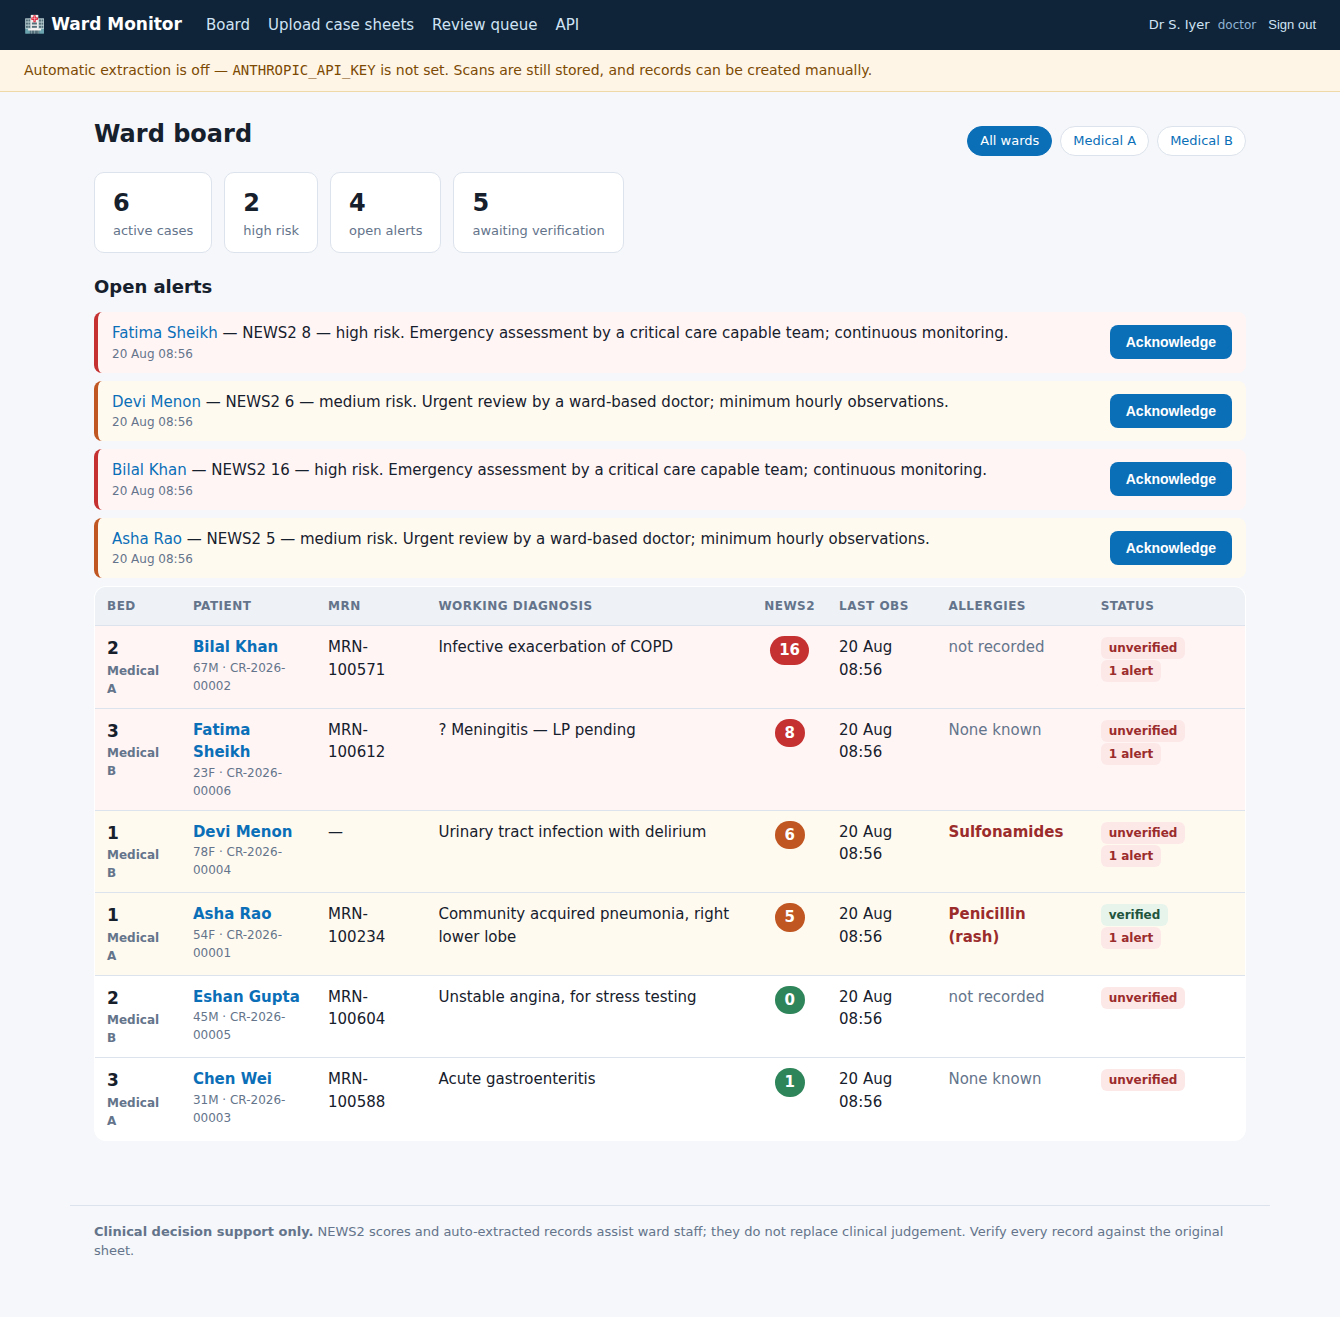
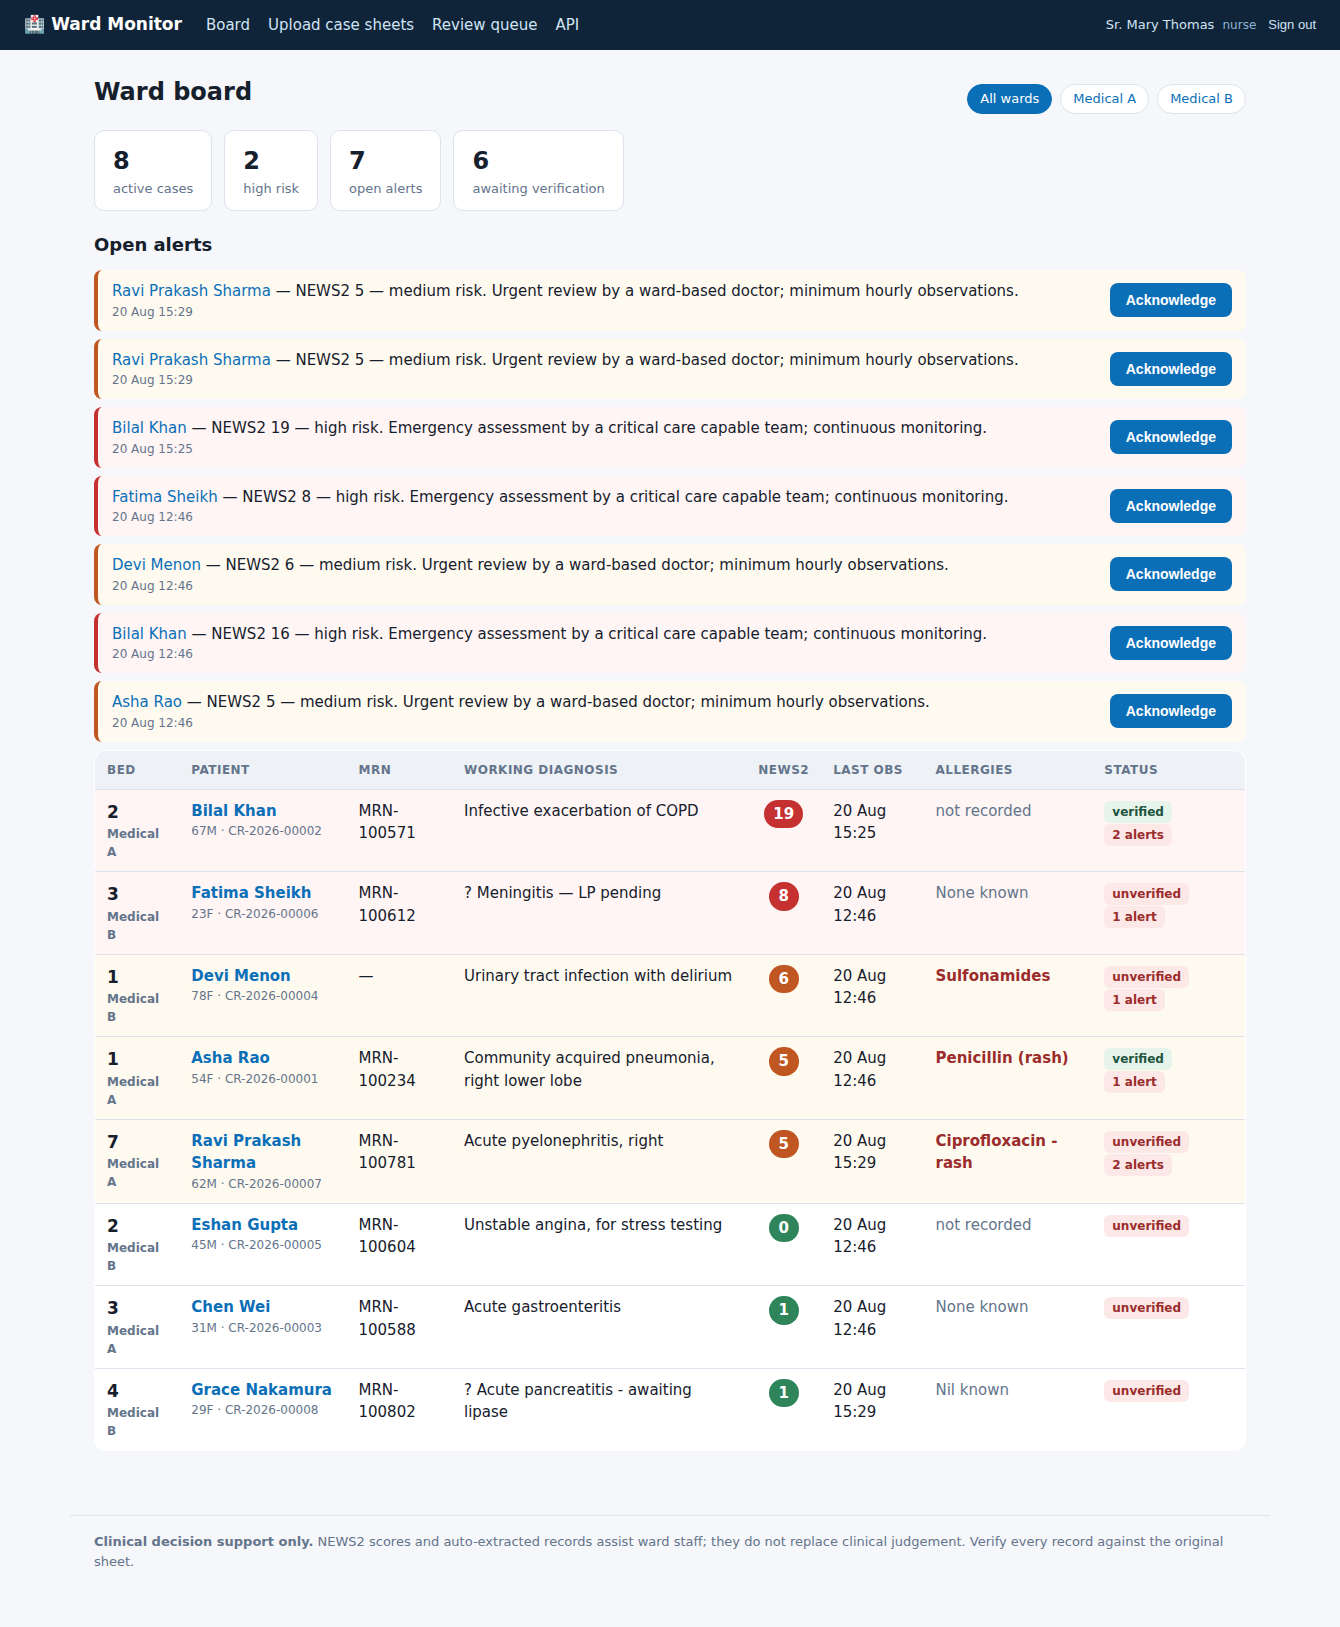
Do not duplicate a reading when the same sheet is scanned again
Found by running the app: re-uploading a case sheet, or re-running
extraction on a stored one, correctly refused to duplicate the patient
and the case record — but re-transcribed the vitals every time. That put
a phantom point on the trend chart at the same timestamp and raised the
same alert again, so a patient showed two identical NEWS2 alerts on the
board.

Sheet vitals are now recorded once: an identical set already transcribed
from a scan for that case is skipped. Only sheet-sourced observations are
compared, so two genuinely identical bedside readings taken by a nurse
are still both kept — that is real data, not a duplicate.

Also made score_observation and raise_alerts read their inputs through a
helper that tolerates an unflushed observation. Column defaults are
applied on flush, so an in-memory object can hold None where the database
would have a default, and scoring one crashed on consciousness.value.

Claude-Session: https://claude.ai/code/session_016GEztcXZMA6LRoHpR35yBd

diff --git a/app/intake.py b/app/intake.py
@@ -28,6 +28,9 @@ from app.scoring import alerts_for, calculate_news2
 
 logger = logging.getLogger(__name__)
 
+# Marks an observation as transcribed off a scan rather than taken at the bedside.
+SHEET_SOURCE = "case sheet (auto-extracted)"
+
 DATE_FORMATS = [
     "%Y-%m-%d", "%d/%m/%Y", "%d-%m-%Y", "%m/%d/%Y", "%d.%m.%Y",
     "%d %b %Y", "%d %B %Y", "%b %d, %Y", "%B %d, %Y",
@@ -304,20 +307,45 @@ def _apply_clinical(case: models.CaseRecord, sheet: ExtractedCaseSheet, *, overw
     return warnings
 
 
+VITALS_FIELDS = (
+    "respiratory_rate", "spo2", "on_oxygen", "systolic_bp",
+    "diastolic_bp", "pulse", "temperature_c",
+)
+
+
+def _already_transcribed(case: models.CaseRecord, vitals) -> bool:
+    """Has this exact set of sheet vitals already been recorded for this case?
+
+    Re-scanning a sheet — or re-running extraction on a stored one — must not
+    add a second copy of the same reading. A duplicate would put a phantom point
+    on the trend chart and raise the same alert twice.
+    """
+    incoming = {field: getattr(vitals, field) for field in VITALS_FIELDS}
+    incoming["on_oxygen"] = bool(incoming["on_oxygen"])
+    for existing in case.observations:
+        if existing.recorded_by != SHEET_SOURCE:
+            continue
+        if all(getattr(existing, field) == incoming[field] for field in VITALS_FIELDS):
+            return True
+    return False
+
+
 def record_observation_from_sheet(
     db: Session, case: models.CaseRecord, sheet: ExtractedCaseSheet
 ) -> models.Observation | None:
-    """Store the vitals printed on the sheet as the first observation."""
+    """Store the vitals printed on the sheet as an observation, once."""
     vitals = sheet.vitals
     if vitals is None:
         return None
     values = vitals.model_dump(exclude_none=True)
     if not values:
         return None
+    if _already_transcribed(case, vitals):
+        return None
 
     observation = models.Observation(
         case_record=case,
-        recorded_by="case sheet (auto-extracted)",
+        recorded_by=SHEET_SOURCE,
         respiratory_rate=vitals.respiratory_rate,
         spo2=vitals.spo2,
         on_oxygen=bool(vitals.on_oxygen),
@@ -335,17 +363,27 @@ def record_observation_from_sheet(
     return observation
 
 
-def score_observation(observation: models.Observation) -> None:
-    result = calculate_news2(
+def _news2_args(observation: models.Observation) -> dict:
+    """Read scoring inputs off an observation that may not be flushed yet.
+
+    Column defaults are applied on flush, so an in-memory object can still have
+    None where the database would have a default — score it the same either way.
+    """
+    consciousness = observation.consciousness or models.Consciousness.alert
+    return dict(
         respiratory_rate=observation.respiratory_rate,
         spo2=observation.spo2,
-        on_oxygen=observation.on_oxygen,
-        spo2_scale=observation.spo2_scale,
+        on_oxygen=bool(observation.on_oxygen),
+        spo2_scale=observation.spo2_scale or 1,
         systolic_bp=observation.systolic_bp,
         pulse=observation.pulse,
         temperature_c=observation.temperature_c,
-        consciousness=observation.consciousness.value,
+        consciousness=consciousness.value,
     )
+
+
+def score_observation(observation: models.Observation) -> None:
+    result = calculate_news2(**_news2_args(observation))
     observation.news2_score = result.score
     observation.risk_level = result.risk
     observation.news2_breakdown = result.as_dict()
@@ -355,16 +393,7 @@ def raise_alerts(db: Session, observation: models.Observation) -> list[models.Al
     """Create alert rows for an observation that breaches escalation thresholds."""
     if not observation.news2_breakdown:
         return []
-    result = calculate_news2(
-        respiratory_rate=observation.respiratory_rate,
-        spo2=observation.spo2,
-        on_oxygen=observation.on_oxygen,
-        spo2_scale=observation.spo2_scale,
-        systolic_bp=observation.systolic_bp,
-        pulse=observation.pulse,
-        temperature_c=observation.temperature_c,
-        consciousness=observation.consciousness.value,
-    )
+    result = calculate_news2(**_news2_args(observation))
     created = []
     for severity, message in alerts_for(result):
         alert = models.Alert(

diff --git a/tests/test_intake.py b/tests/test_intake.py
@@ -295,3 +295,65 @@ def test_extraction_failure_is_recorded_without_losing_the_scan(db):
     assert upload.status == models.UploadStatus.failed
     assert upload.error == "model unavailable"
     assert db.query(models.CaseRecord).count() == 0
+
+
+# --------------------------------------------------------------------------
+# Re-scanning the same sheet
+# --------------------------------------------------------------------------
+
+def test_rescanning_a_sheet_does_not_duplicate_its_vitals(db):
+    """Found by running the app: a re-scan added a phantom observation and a
+    second copy of the same alert."""
+    vitals = ExtractedVitals(respiratory_rate=22, spo2=96, on_oxygen=False,
+                             systolic_bp=106, pulse=104, temperature_c=38.9,
+                             consciousness="alert")
+    first = intake.apply_sheet(db, sheet(vitals=vitals))
+    db.commit()
+    assert len(first.case_record.observations) == 1
+
+    again = intake.apply_sheet(db, sheet(vitals=vitals))
+    db.commit()
+
+    assert again.action == "updated"
+    assert len(again.case_record.observations) == 1, "the same reading must not be stored twice"
+
+
+def test_rescanning_does_not_raise_the_same_alert_twice(db):
+    vitals = ExtractedVitals(respiratory_rate=28, spo2=88, on_oxygen=True,
+                             systolic_bp=88, pulse=132, temperature_c=39.4,
+                             consciousness="voice")
+    intake.apply_sheet(db, sheet(vitals=vitals))
+    db.commit()
+    outcome = intake.apply_sheet(db, sheet(vitals=vitals))
+    db.commit()
+    assert len(outcome.case_record.alerts) == 1
+
+
+def test_a_sheet_with_genuinely_new_vitals_is_still_recorded(db):
+    """Only an identical reading is suppressed — a later round must still land."""
+    outcome = intake.apply_sheet(db, sheet(vitals=ExtractedVitals(pulse=80, spo2=98)))
+    db.commit()
+    updated = intake.apply_sheet(db, sheet(vitals=ExtractedVitals(pulse=120, spo2=91)))
+    db.commit()
+    assert len(updated.case_record.observations) == 2
+
+
+def test_a_bedside_observation_with_the_same_values_is_never_suppressed(db):
+    """Two identical readings taken by a nurse are real data, not a duplicate."""
+    outcome = intake.apply_sheet(db, sheet(vitals=ExtractedVitals(pulse=80, spo2=98)))
+    case = outcome.case_record
+    manual = models.Observation(case_record_id=case.id, pulse=80, spo2=98, recorded_by="N. Patel")
+    intake.score_observation(manual)
+    db.add(manual)
+    db.commit()
+    db.refresh(case)
+    assert len(case.observations) == 2
+
+
+def test_scoring_works_on_an_observation_that_is_not_flushed_yet():
+    """Column defaults land on flush, so an in-memory object can hold None."""
+    observation = models.Observation(case_record_id=1, pulse=130, spo2=90)
+    assert observation.consciousness is None
+    intake.score_observation(observation)
+    assert observation.news2_score == 5
+    assert observation.risk_level == "medium"
